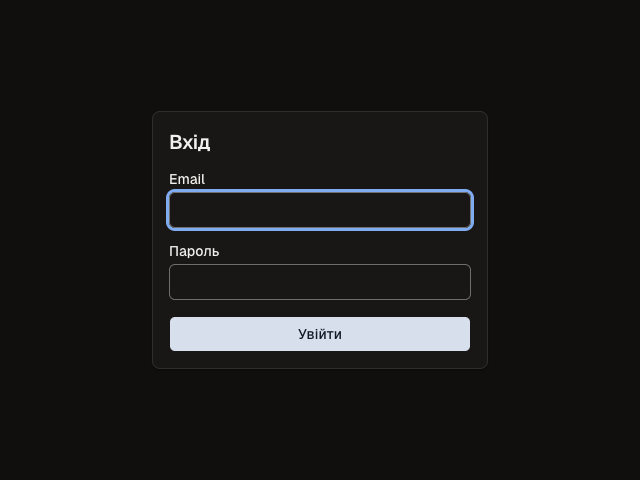
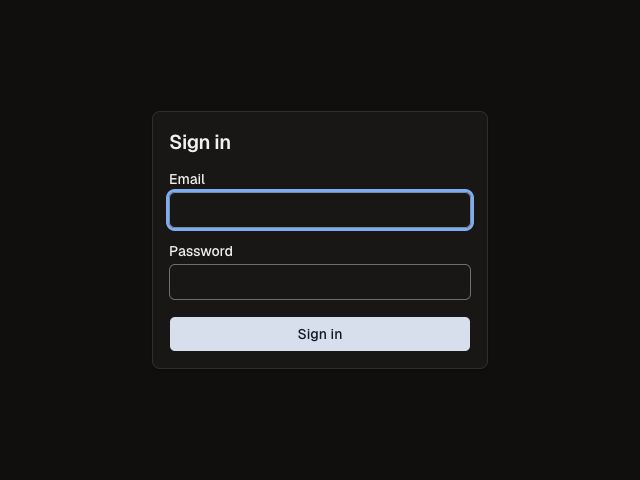
Design system: English login per PM interface-language assumption, lang=en, retaken after shots

Changed region(s): [[0.25, 0.5, 0.375, 0.5312], [0.25, 0.2812, 0.375, 0.3125], [0.4688, 0.6875, 0.5312, 0.7188]]

diff --git a/src/app/login/page.tsx b/src/app/login/page.tsx
@@ -6,9 +6,10 @@ import { Input } from "@/components/ui/input";
 import { Label } from "@/components/ui/label";
 import { login } from "./actions";
 
+// Мова інтерфейсу — англійська (припущення вимоги PM, requirements/2-planuvalnyk-utrymuie-slot-terapevta.md).
 const ERRORS: Record<string, string> = {
-  missing: "Вкажіть email і пароль.",
-  invalid: "Невірний email або пароль.",
+  missing: "Enter your email and password.",
+  invalid: "Incorrect email or password.",
 };
 
 export default async function LoginPage({ searchParams }: PageProps<"/login">) {
@@ -20,7 +21,7 @@ export default async function LoginPage({ searchParams }: PageProps<"/login">) {
       <Card>
         <CardHeader>
           <CardTitle>
-            <h1 className="text-xl font-semibold tracking-tight">Вхід</h1>
+            <h1 className="text-xl font-semibold tracking-tight">Sign in</h1>
           </CardTitle>
         </CardHeader>
         <CardContent>
@@ -30,7 +31,7 @@ export default async function LoginPage({ searchParams }: PageProps<"/login">) {
               <Input id="email" name="email" type="email" autoComplete="email" required />
             </div>
             <div className="flex flex-col gap-1.5">
-              <Label htmlFor="password">Пароль</Label>
+              <Label htmlFor="password">Password</Label>
               <Input id="password" name="password" type="password" autoComplete="current-password" required />
             </div>
             {message ? (
@@ -39,7 +40,7 @@ export default async function LoginPage({ searchParams }: PageProps<"/login">) {
                 <AlertTitle>{message}</AlertTitle>
               </Alert>
             ) : null}
-            <Button type="submit">Увійти</Button>
+            <Button type="submit">Sign in</Button>
           </form>
         </CardContent>
       </Card>

diff --git a/src/app/layout.tsx b/src/app/layout.tsx
@@ -20,7 +20,7 @@ export const metadata: Metadata = {
 export default function RootLayout({ children }: LayoutProps<"/">) {
   return (
     <html
-      lang="uk"
+      lang="en"
       className={`${geistSans.variable} ${geistMono.variable} h-full antialiased`}
     >
       <body className="min-h-full flex flex-col">{children}</body>

diff --git a/DESIGN.md b/DESIGN.md
@@ -18,7 +18,7 @@
 - **Колір отримують лише** основна дія (`primary`), помилки (`destructive`) і статуси (`status-*`). Решта — тихі
   нейтральні тла: теплий «папір» у світлій темі, тепле майже чорне тло в темній.
 - **Щільність середня:** таблиця дня (8 слотів) видно без прокрутки на ноутбуці 1366×768.
-- **Мова інтерфейсу — англійська**, sentence case: «Hold», «Sign out», «My schedule».
+- **Мова інтерфейсу — англійська** (припущення вимоги PM), sentence case: «Hold», «Sign in», «Sign out», «My schedule».
 
 ## 2. Кольори
 
@@ -200,5 +200,7 @@
 - **Дії «Release hold» і «Hold again»**, утримання через Dialog — таких дій у зрізі немає; утримання — форма в рядку
   таблиці.
 - **Ім'я клієнта з ініціалом у списках** — змінило б те, що показують AC зрізу 1 (ім'я та email).
-- **Мова сторінки входу.** Сторінка входу з шаблону — українською («Вхід», «Пароль», «Увійти»), решта інтерфейсу —
-  англійською. TODO: питання PM — якою мовою має бути вхід.
+
+Мову інтерфейсу задає вимога PM («Мова інтерфейсу — англійська» у «Припущеннях»
+`requirements/2-planuvalnyk-utrymuie-slot-terapevta.md`), тож і сторінку входу шаблону переведено англійською
+(«Sign in», «Email», «Password»), а `<html lang="en">`.
